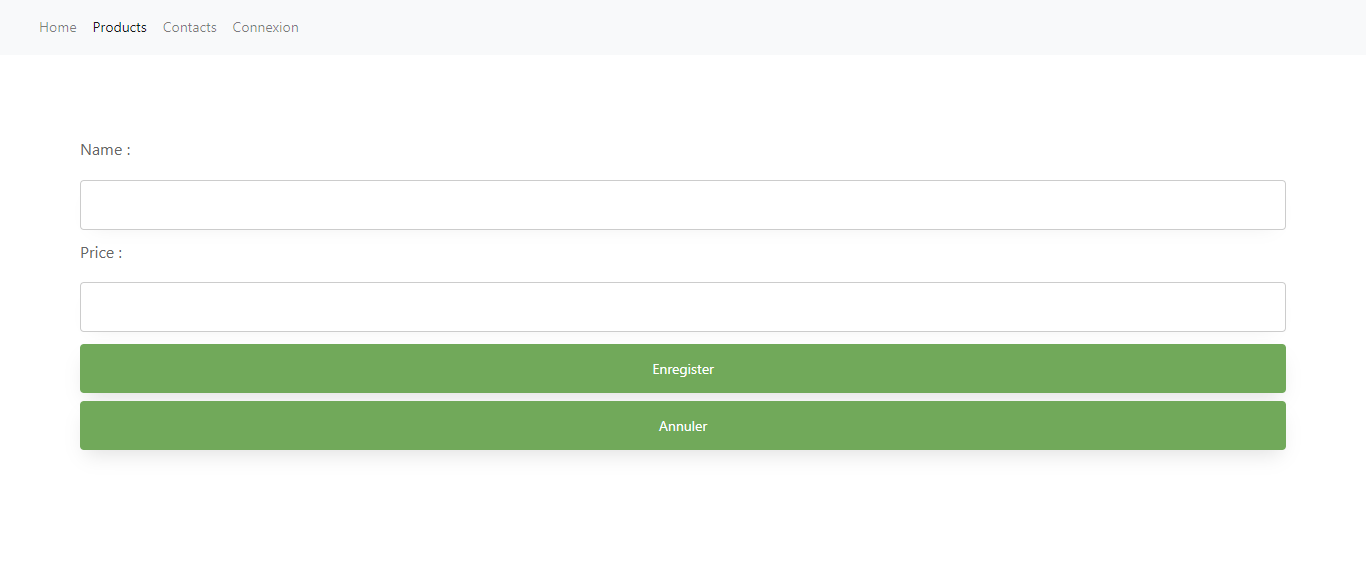
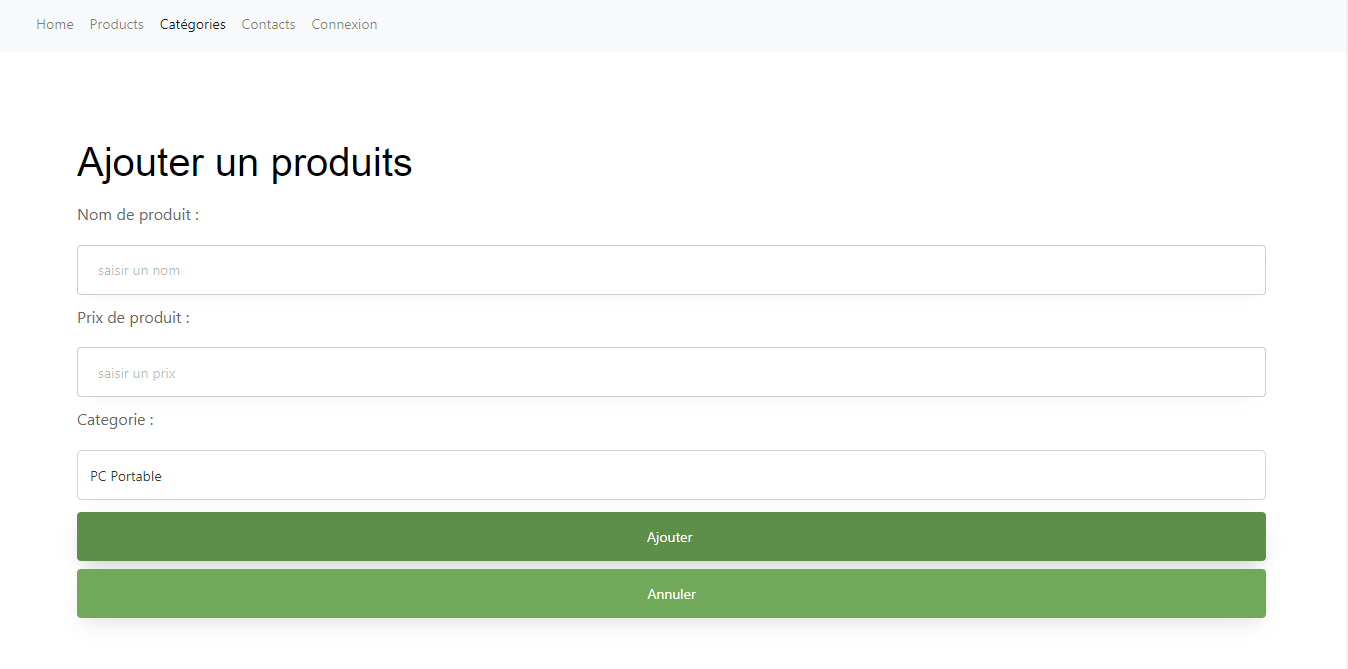
commit

diff --git a/frontend/src/compenents/component.product.new.jsx b/frontend/src/compenents/component.product.new.jsx
@@ -1,0 +1,53 @@
+import { useState , useEffect } from 'react';
+
+import '../index.css';
+import { addProduct, getAllProduct } from '../services/product.services';
+import { useNavigate } from 'react-router-dom';
+import { getAllCategories } from '../services/categorie.services';
+
+
+export function CategorieAddForm(){
+  const [name,setName] = useState("");
+  const [price,setPrice] = useState(0);
+  const [selectedCat,setSelectedCat]= useState(0);
+  const [categories, setCategories]=useState([]);
+  const navigate=useNavigate();
+  
+  useEffect(()=>{
+    fetchCategories()
+  },[])
+
+  async function fetchCategories() {
+      const res = await getAllCategories(); // Note the function call here
+      setCategories(res.data);
+  }
+
+  async function handlForm(event){
+    event.preventDefault(); 
+    const p={"name":name,"price":price, "category":categories[selectedCat]}
+    await addProduct(p);
+    navigate("/products");
+  
+  }
+  
+  return (
+    <>
+    <div className="form-wrapper " >
+  <h1>Ajouter un produits</h1>
+  <form onSubmit={(e)=>handlForm(e)}>
+    <label className="form-label" htmlFor='name'>Nom de produit :</label>
+    <input className="form-control" type='text' id='name' placeholder='saisir un nom'  onChange={(event)=>setName(event.target.value)}></input>
+    <label htmlFor='price'>Prix de produit :</label>
+    <input className="form-control"type='number' id='price' placeholder='saisir un prix' onChange={(event)=>setPrice(event.target.value)}></input>
+    <label className="form-label"  htmlFor='price'>Categorie :</label>
+    <select className="form-control" onChange={(e)=>setSelectedCat(e.target.value)}>
+      {categories.map((category,index)=><option key={index} value={index}>{category.name}</option>)}
+    </select>
+
+    <input type='submit' className="btn btn-primary" value='Ajouter '></input>
+    <input type='reset'className="btn btn-primary" value='Annuler'></input>
+    </form>
+    </div>
+    </>
+);
+}

diff --git a/backend/controllers/category.controllers.js b/backend/controllers/category.controllers.js
@@ -1,0 +1,53 @@
+//Appeller le model au niveau du controller
+const Category = require('../models/Category');
+
+async function getAllCategories(req,res){
+    try{
+        const categories = await Category.find(); 
+        res.status(200).json(categories);
+    }catch(error){
+        
+        res.status(500).send('error dans le serveur');
+    }
+}
+
+async function getCategoryById(req,res){
+    const idP=req.params.id;
+    try{
+        const category= await Category.findById(idP);
+        res.status(200).json(category);
+    }catch(error){
+        res.status(500).send('error dans le serveur');
+    }
+}
+
+//Await toujours avec fct asynchrone 
+async function addCategory(req,res){
+    try{
+        const category = await Category.create(req.body);
+        res.status(201).json(category);
+    }catch(error){
+        res.status(500).send('error d ajout');
+    }
+}
+
+
+async function deleteCategoryById(req,res){
+    const idp=req.params.id;
+    try{
+        const category = await Category.findByIdAndRemove(idp);
+        res.status(200).json(category);
+    }catch(error){
+        console.log(error)
+        res.status(500).send('error de suppression');
+    }
+}
+
+
+async function updateCategory(req,res){
+    const idp=req.params.id;
+    await Category.findByIdAndUpdate(idp,req.body);
+    res.json("La categorie a été bien modifié");
+}
+
+module.exports={getAllCategories,getCategoryById,addCategory,deleteCategoryById,updateCategory};

diff --git a/frontend/src/compenents/component.product.list.jsx b/frontend/src/compenents/component.product.list.jsx
@@ -21,12 +21,13 @@ export function ProductList() {
   }
 
   return (<>
-<Link to={"/products/new"} class=" btn btn-ajouter" > <i class="fas fa-plus"></i> Nouveau produit</Link>
+<Link to={"/categories"} class=" btn btn-ajouter" > <i class="fas fa-plus"></i> Nouveau produit</Link>
     <div class="table-wrapper">
       <table class="fl-table">
         <tr>
           <th class="text-center">Name</th>
           <th class="text-center">Price</th>
+          <th class="text-center">Categorie</th>
           <th class="text-center">Action</th>
 
         </tr>
@@ -35,6 +36,7 @@ export function ProductList() {
             <tr key={index}>
               <td class="text-center">{elem.name}</td>
               <td class="text-center">{elem.price}</td>
+              <td class="text-center">{elem.category.name}</td>
               <td class="text-center">
                 
                 <button class="btn btn-supprimer" onClick={() => deleteProduct(elem._id)}>

diff --git a/frontend/src/compenents/component.product.edit.jsx b/frontend/src/compenents/component.product.edit.jsx
@@ -18,11 +18,11 @@ export function ProductEdit(){
         setName(p.name);
         setPrice(p.price);
     }
-    function handlForm(event){
+    async function handlForm(event){
        
         event.preventDefault();
         const p={"_id":id,"name":name, "price":price}
-        updateProduct(p);
+        await updateProduct(p);
         navigate("/products");
       }
 
@@ -37,7 +37,7 @@ export function ProductEdit(){
     <label className="form-label" htmlFor="price"> Price :</label>
     <input className="form-control"type="number" id="price"value={price} onChange={(e) => setPrice(e.target.value)} />
     <br />
-
+    
     <input type='submit'className="btn btn-primary" value={"Enregister"} />
     <input type='reset' className="btn btn-primary" value={"Annuler"} />
   </form>

diff --git a/backend/server.js b/backend/server.js
@@ -4,7 +4,8 @@
 const express = require('express')//importer express
 const app = express();//demarer express
 const cors=require("cors");
-const productrouter=require("./routes/products.routes")//charger les routs ici
+const productrouter=require("./routes/products.routes")
+const categoryrouter=require("./routes/categories.routes")
 const mongoose = require('mongoose');
 const dotenv=require("dotenv");
 
@@ -18,4 +19,5 @@ mongoose.connect(process.env.DB_URL)
 app.use(cors());
 //app.use(express.urlencoded());//convertir les donnes saisi dans postman en un format objet 
 app.use(express.json());
-app.use("/products",productrouter); //aller vers le fichier du routage tout les routes commence par /
+app.use("/products",productrouter);
+app.use("/categories",categoryrouter);

diff --git a/frontend/src/App.jsx b/frontend/src/App.jsx
@@ -8,6 +8,7 @@ import { Home } from './compenents/component.home';
 import {Connexion} from'./compenents/component.connexion';
 import {Contact} from './compenents/component.contact';
 import { ProductEdit } from './compenents/component.product.edit';
+import {CategorieAddForm} from './compenents/component.product.new';
 function App() {
   return (
     <Routes>
@@ -19,7 +20,8 @@ function App() {
       <Route path="/home" element={<Home/>}/> 
       <Route path="/connexion" element={<Connexion/>}/> 
       <Route path="/contact" element={<Contact/>}/> 
-
+      <Route path="/categories" element={<CategorieAddForm/>}/> 
+      
       </Route>
     </Routes>
    

diff --git a/frontend/src/compenents/component.admin.layout.jsx b/frontend/src/compenents/component.admin.layout.jsx
@@ -15,7 +15,9 @@ export function AdminLayout(){
                         <li className="nav-item">
                             <NavLink className={"nav-link"} to={"/products"}>Products</NavLink>   
                         </li>
-
+                        <li className="nav-item">
+                            <NavLink className={"nav-link"} to={"/categories"}>Catégories</NavLink>   
+                        </li>
                         <li className="nav-item">
                             <NavLink className={"nav-link"} to={"/contact"}>Contacts</NavLink>  
                         </li>

diff --git a/backend/routes/categories.routes.js b/backend/routes/categories.routes.js
@@ -1,0 +1,11 @@
+const express=require("express");
+const categoryController=require("../controllers/category.controllers");
+const router=express.Router();
+
+
+router.route('/').get(categoryController.getAllCategories).post(categoryController.addCategory);
+router.route('/:id').get(categoryController.getCategoryById)
+.delete(categoryController.deleteCategoryById).patch(categoryController.updateCategory);
+
+
+module.exports=router;

diff --git a/backend/controllers/products.controllers.js b/backend/controllers/products.controllers.js
@@ -3,8 +3,8 @@ const Product = require('../models/Product');
 
 async function getAllProducts(req,res){
     try{
-        const products = await Product.find(); 
-        res.status(200).json(products);
+        const products = await Product.find().populate("category"); 
+        res.json(products);
     }catch(error){
         
         res.status(500).send('error dans le serveur');

diff --git a/backend/models/Product.js b/backend/models/Product.js
@@ -5,7 +5,10 @@ const productSchema = new mongoose.Schema({
 
     name: String,
     price: Number,
-
+    category:{
+        type:mongoose.Types.ObjectId,
+        ref:'Category'
+    }
 });
 
 const Product=mongoose.model("Product",productSchema);

diff --git a/backend/models/Category.js b/backend/models/Category.js
@@ -1,0 +1,8 @@
+const mongoose=require("mongoose");
+
+const categorySchema= new mongoose.Schema({
+    name:String,
+});
+
+const Category = mongoose.model("Category",categorySchema);
+module.exports = Category;

diff --git a/frontend/src/services/categorie.services.js b/frontend/src/services/categorie.services.js
@@ -1,0 +1,5 @@
+import http from './http-common'; 
+
+export async function getAllCategories(){
+       return await http.get("/categories");
+}
